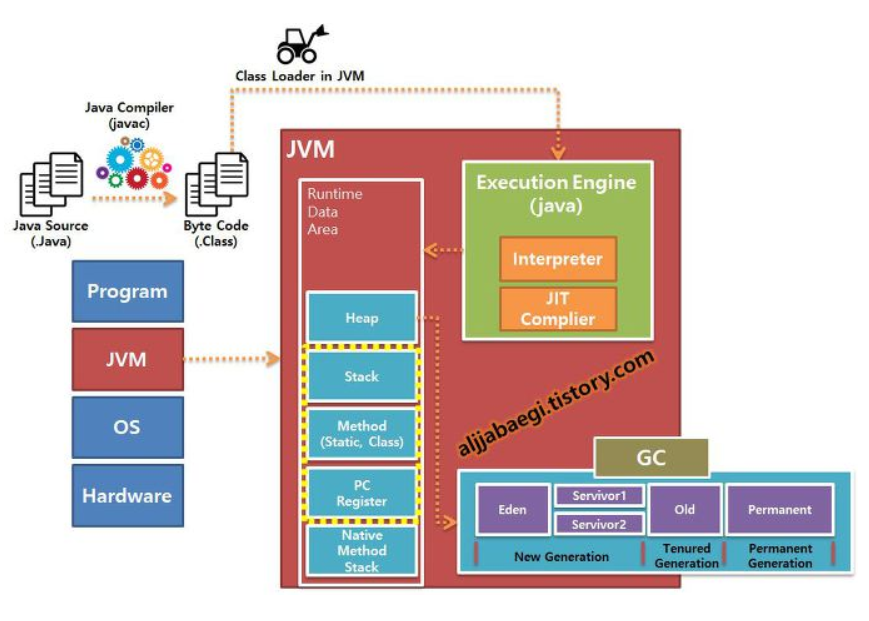
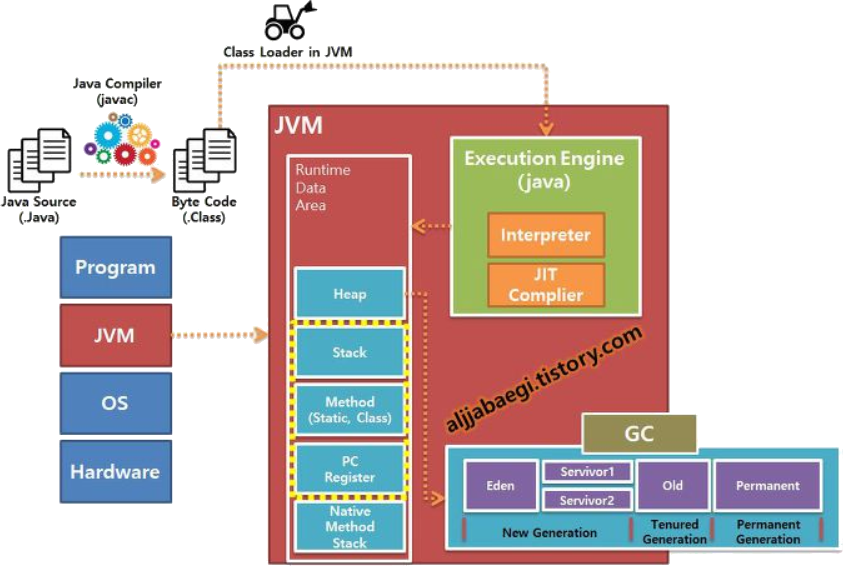
Modified images.

diff --git a/_posts/2019-10-20-java-memory.md b/_posts/2019-10-20-java-memory.md
@@ -6,6 +6,7 @@ layout: post
 <style>
     blockquote {
         font-size:12pt;
+		padding-bottom:0.5px;
         margin-bottom:20px;
     }
 	
@@ -47,7 +48,7 @@ layout: post
 
 - ***Execution Engine***
 
-<img src="{{ 'assets/images/java/memory/java_memory_08.png' | relative_url }}" alt=""/>
+<img src="{{ 'assets/images/java/memory/java_memory_03.png' | relative_url }}" alt=""/>
 
 그다음 ***JVM*** 내 로드된 바이트코드는 ***Execution Engine***에 의해 기계어로 해석되어 메모리 상(Runtime Data Area)에 배치된다. ***Execution Engine***은 인터프리터(Interpreter)와 ***JIT(Just In Time)***컴파일러(Compiler)로 구성되어 있다.
 앞서 말한 코드가 ***JVM***을 통해 해석되기 때문에 OS으로부터 직접 제어 받는 방식보다 속도 면에서 느리다는 단점을 보완하기 위해 ***JIT*** 컴파일러가 존재한다.
@@ -60,7 +61,7 @@ layout: post
 
 ***JVM***이 프로그램을 실행하기 위해 OS로부터 할당받은 메모리 공간으로 크게 5가지로 나뉜다.
 
-<img src="{{ 'assets/images/java/memory/java_memory_03.png' | relative_url }}" alt=""/>
+<img src="{{ 'assets/images/java/memory/java_memory_04.png' | relative_url }}" alt=""/>
 
 ***1. Method Area***
 
